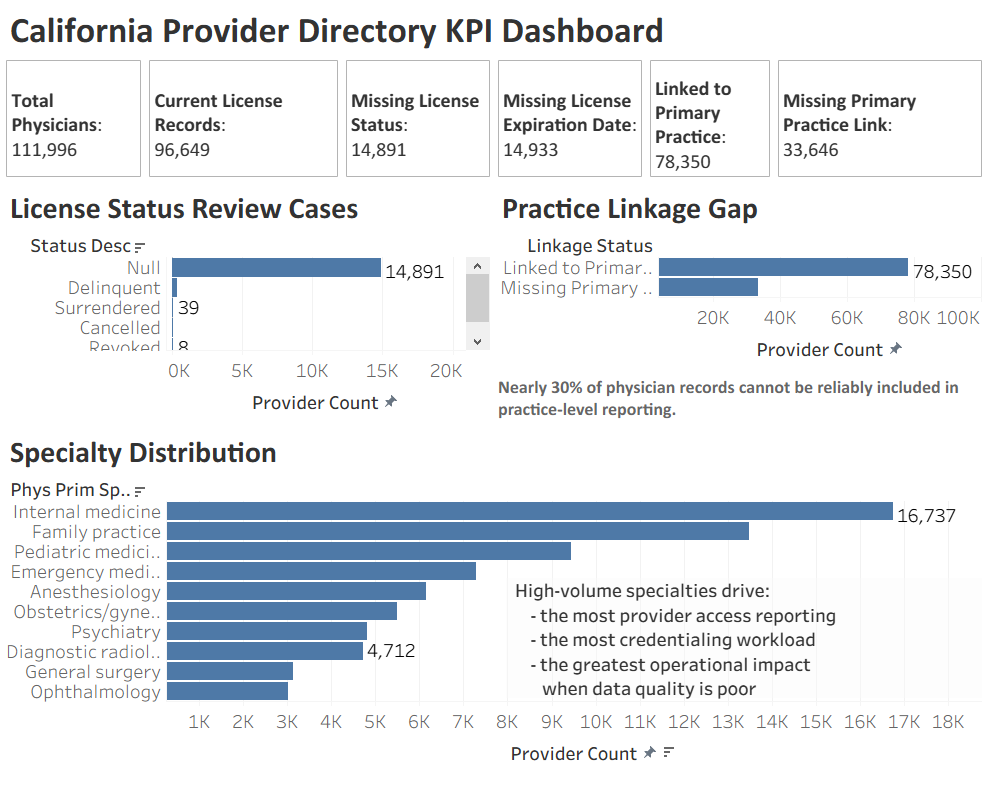
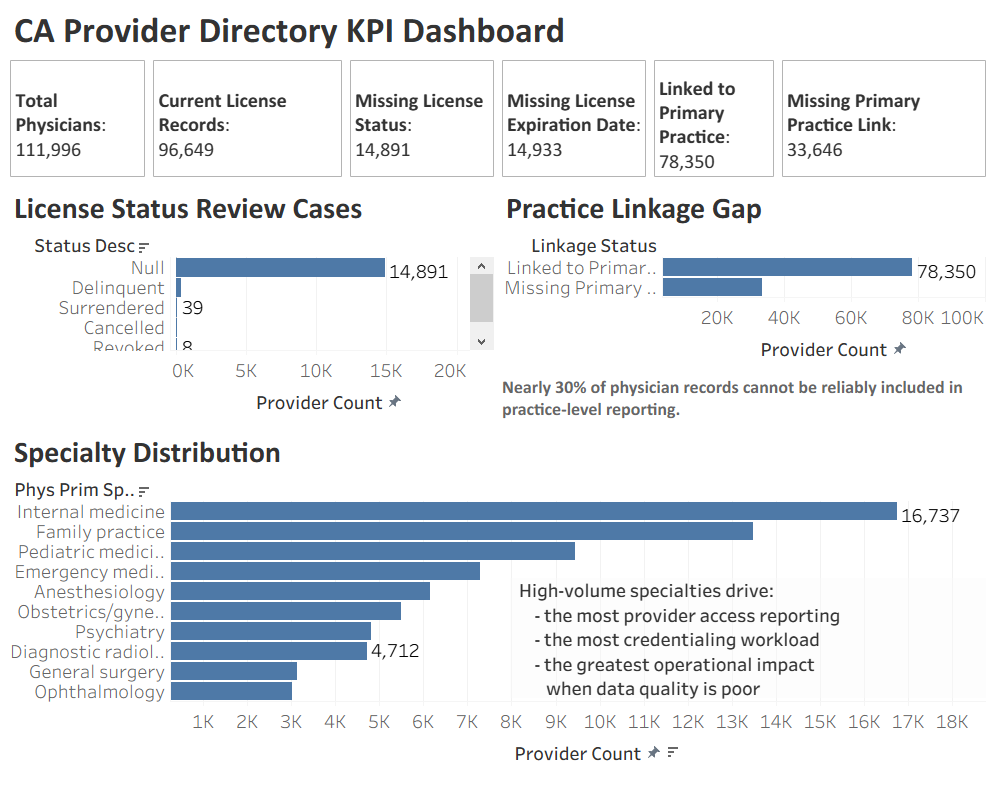
Fix: Modify README and Tableau screenshot for project consistency

diff --git a/README.md b/README.md
@@ -1,4 +1,4 @@
-# California Provider Directory Quality & Credentialing Risk Analysis
+# CA Provider Directory SQL Analysis
 
 SQL | Google BigQuery | Data Validation | KPI Reporting | Healthcare Operations
 
